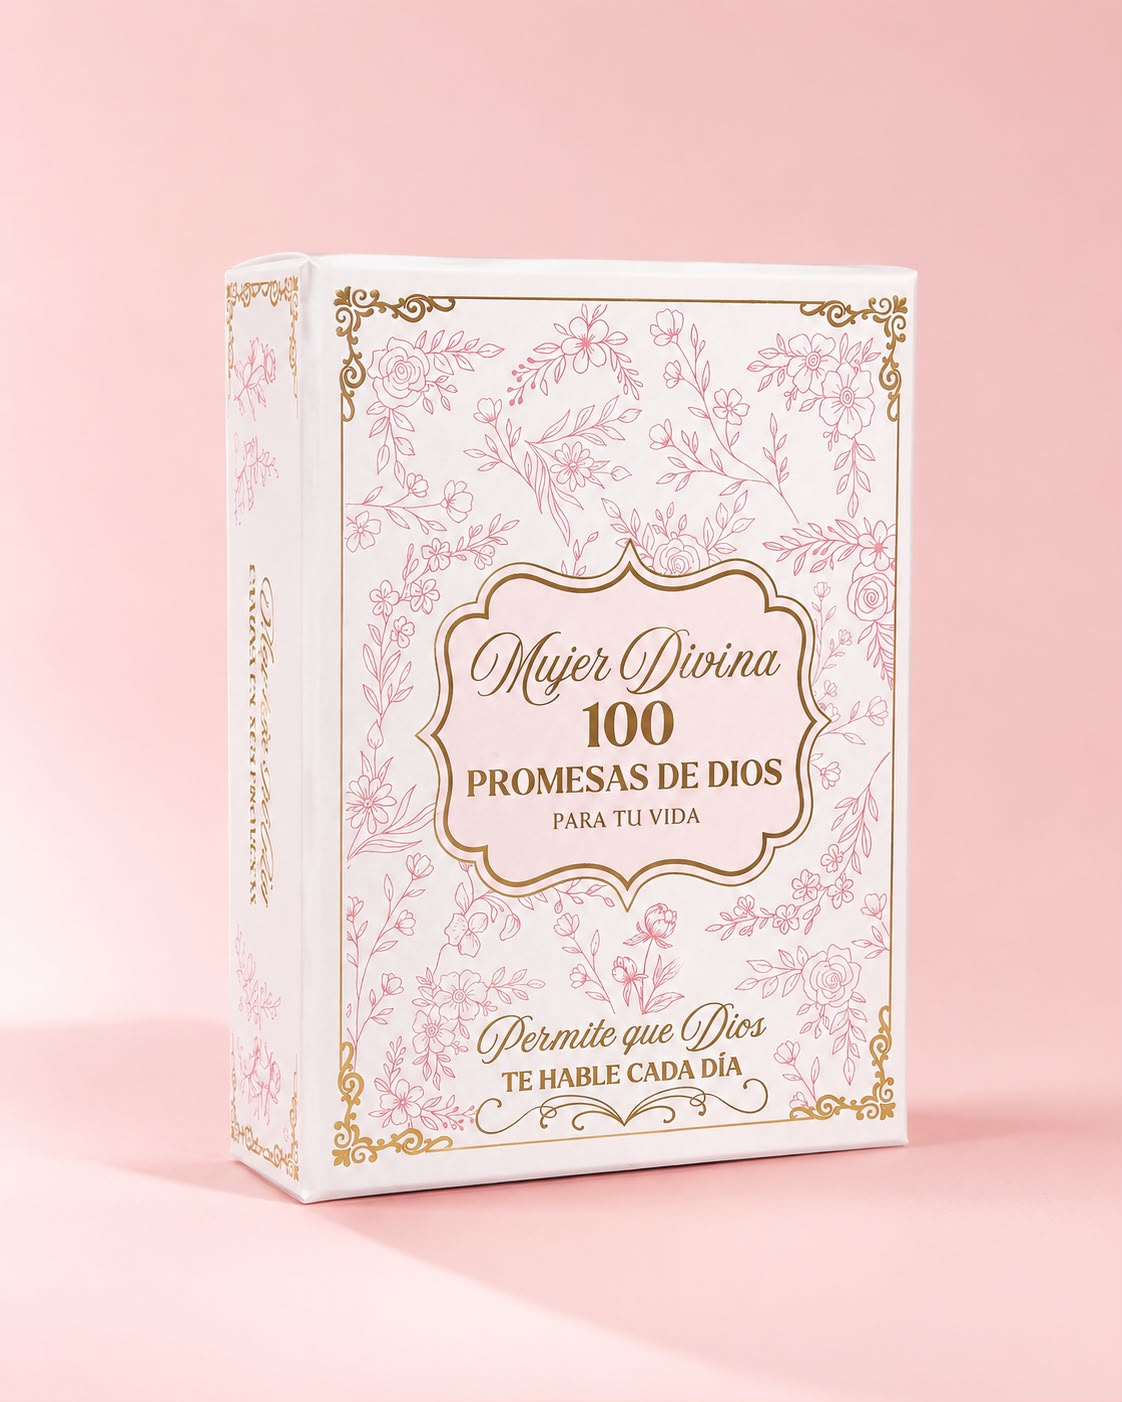
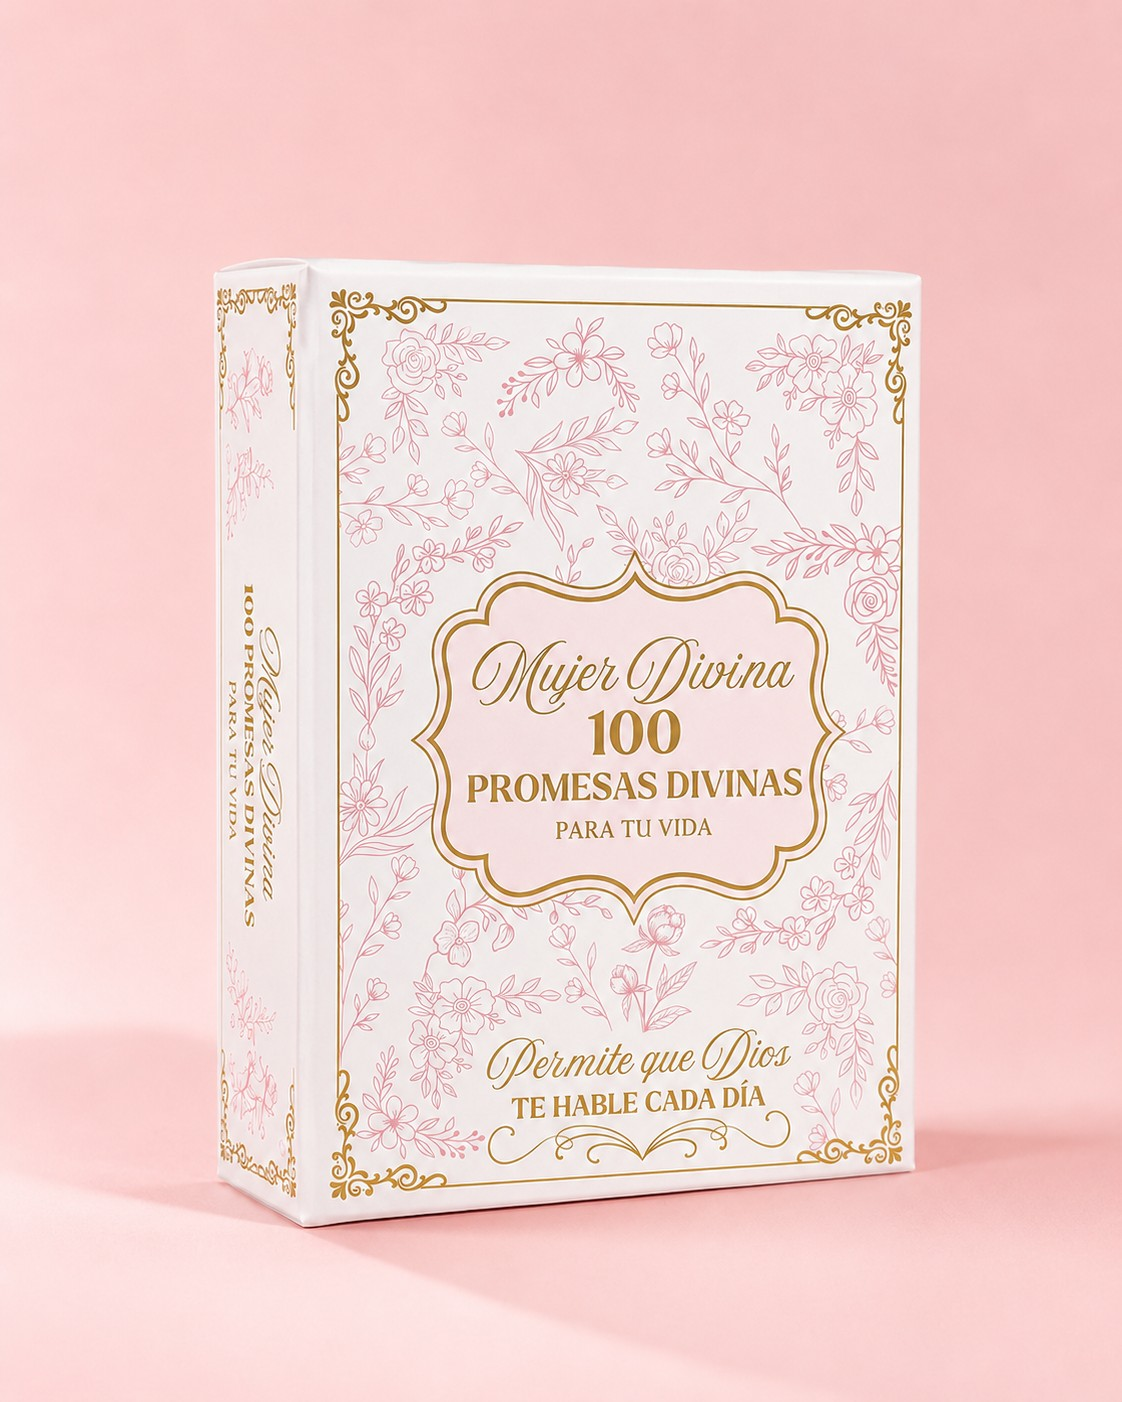
content: foto nueva de la Caja de Promesas y cambiar 'promesas de Dios' por 'promesas divinas'

Changed region(s): [[0.0936, 0.184, 0.8734, 0.9201]]

diff --git a/index.html b/index.html
@@ -494,7 +494,7 @@
                 <div class="orn-dia"></div>
                 <div class="orn-line" style="max-width:30px;"></div>
               </div>
-              <p class="prod-desc">100 tarjetas con promesas de Dios ilustradas para que Su Palabra te acompañe en cada momento: tu devocional, tus oraciones y las temporadas que más las necesitas.</p>
+              <p class="prod-desc">100 tarjetas con promesas divinas ilustradas para que Su Palabra te acompañe en cada momento: tu devocional, tus oraciones y las temporadas que más las necesitas.</p>
               <ul class="prod-features">
                 <li>100 tarjetas con versículos e ilustraciones originales</li>
                 <li>Caja con diseño floral y acabados dorados</li>
